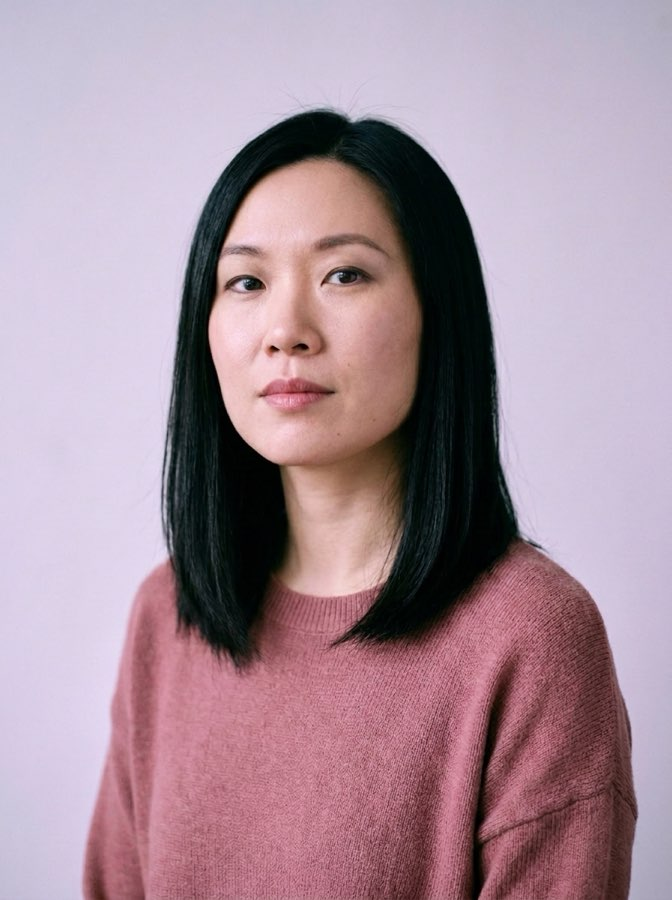
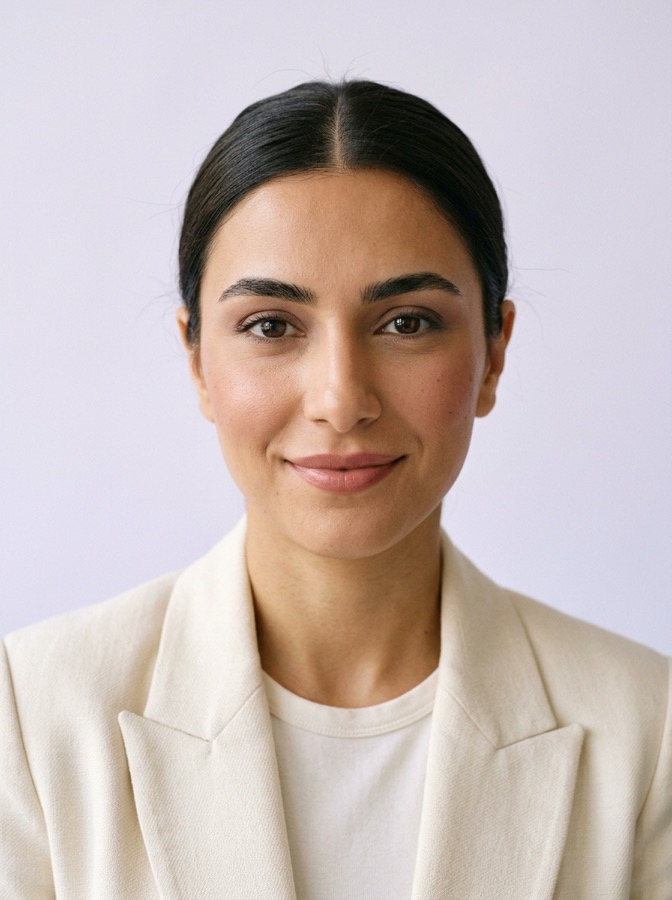
New hero portrait and eight makeup-look images on women of different backgrounds (Google Flow)

diff --git a/apps/mobile/src/components/portraits.tsx b/apps/mobile/src/components/portraits.tsx
@@ -25,7 +25,7 @@ export const PORTRAITS = {
   six: require('../../assets/images/portrait-six.jpg') as ImageSourcePropType,
 } as const;
 
-/** Example of each makeup look on a model (Gemini edits of the portraits above, 2026-10-15). */
+/** Example of each makeup look, on eight different women (Google Flow, Nano Banana 2.1, 2026-10-25). */
 export const LOOK_IMAGES: Record<LookId, ImageSourcePropType> = {
   natural_glow: require('../../assets/images/looks/natural_glow.jpg'),
   office_chic: require('../../assets/images/looks/office_chic.jpg'),
